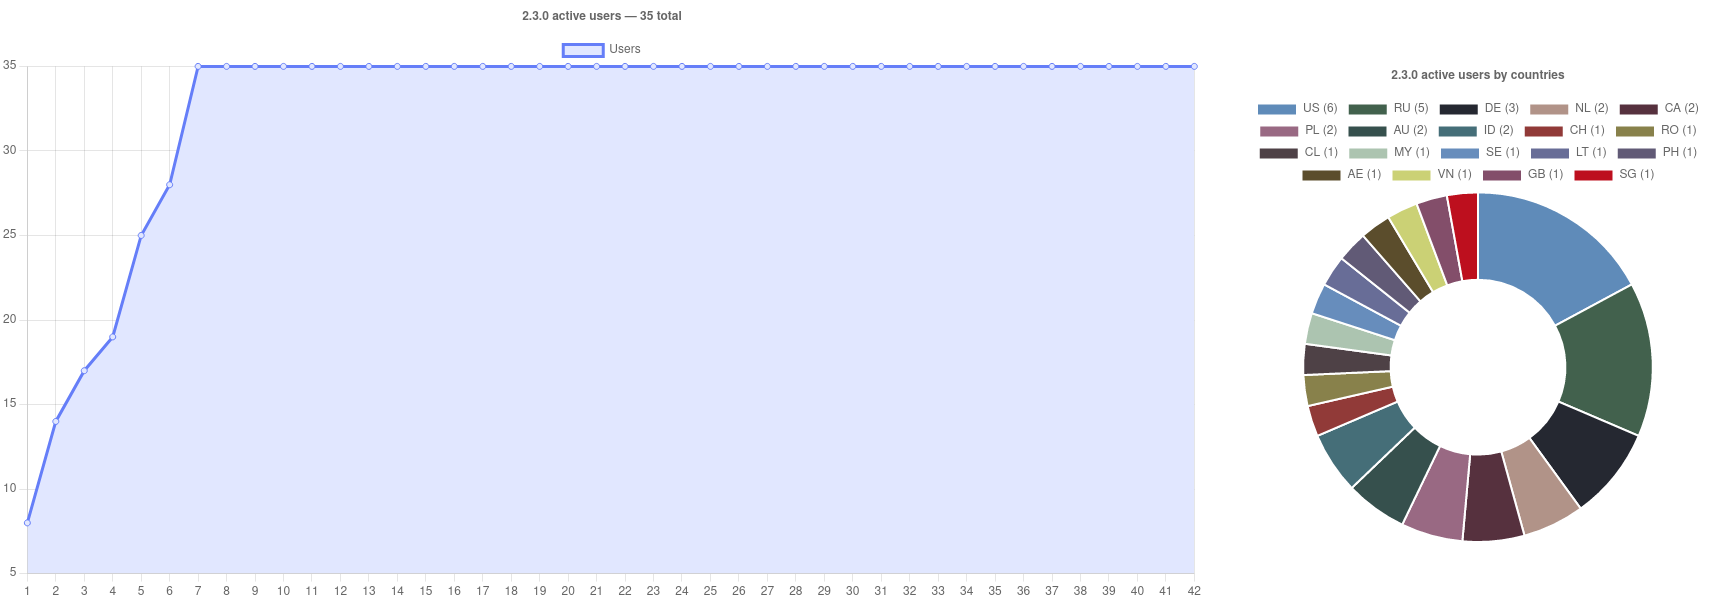
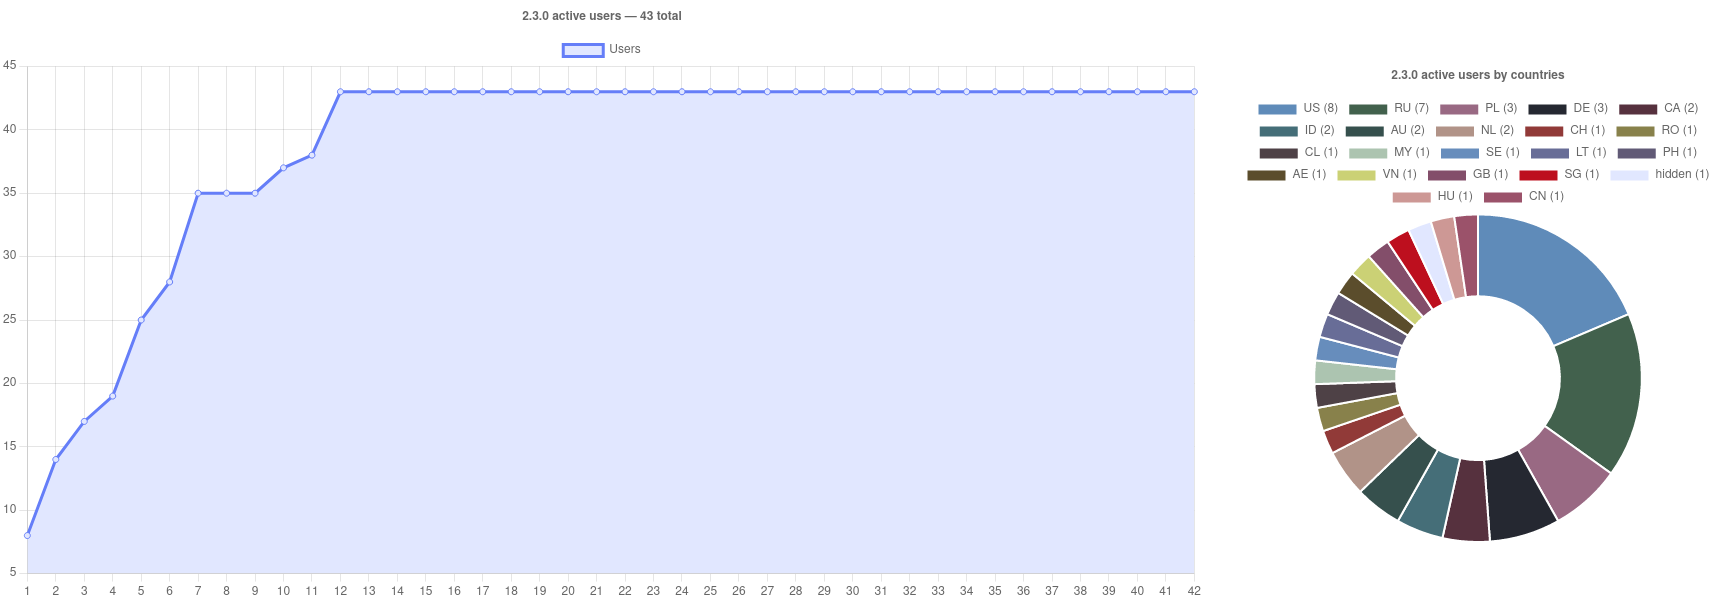
Updated statistics

diff --git a/README.md b/README.md
@@ -34,7 +34,7 @@ This launcher is also available as the [an-anime-game-launcher](https://aur.arch
 
 <img src="repository-pics/stats/2.2.0.png">
 
-### 2.3.0 — 35 total
+### 2.3.0 — 43 total
 
 <img src="repository-pics/stats/2.3.0.png">
 
